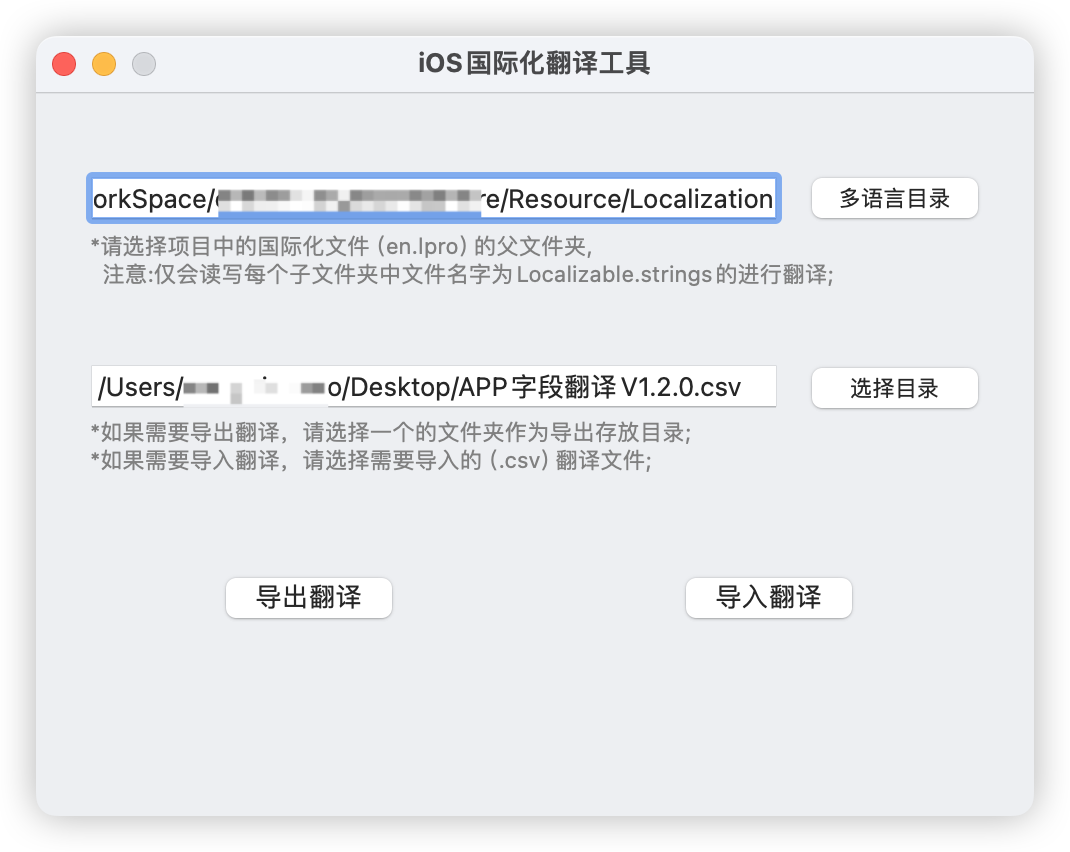
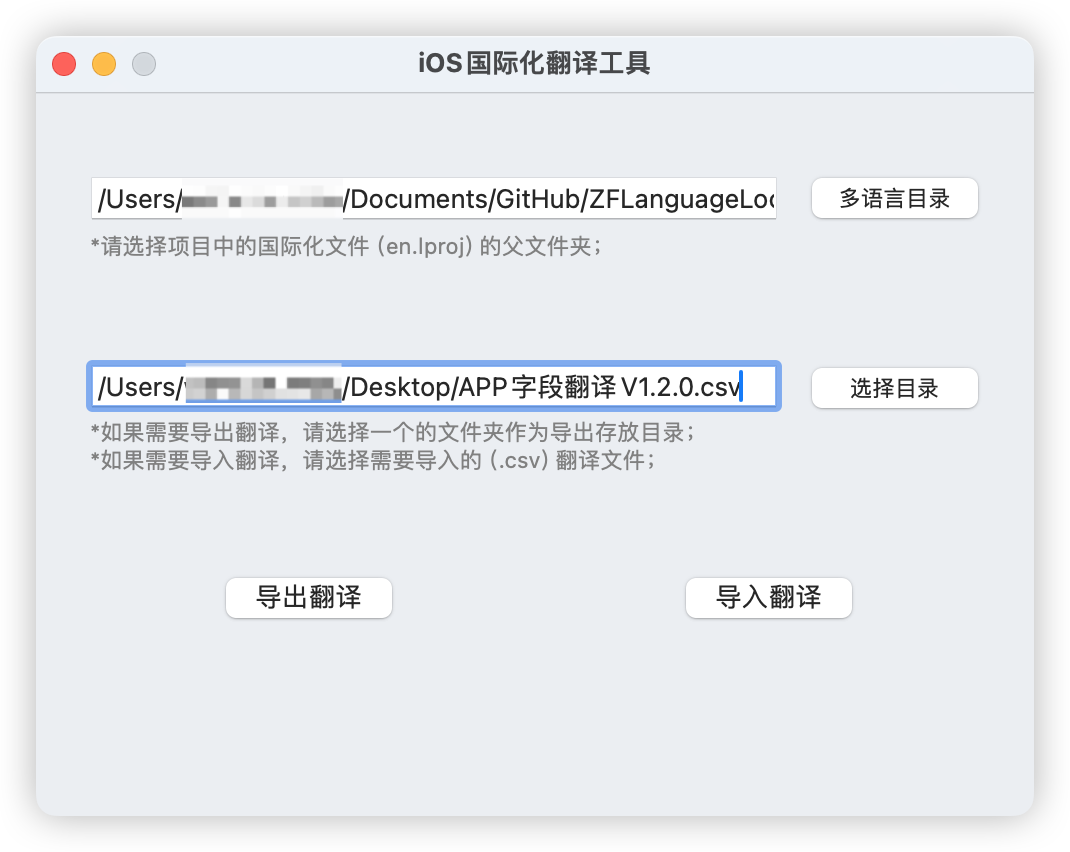
优化细节提示

Changed region(s): [[0.0617, 0.1831, 0.771, 0.3357], [0.0617, 0.3967, 0.7402, 0.4883]]

diff --git a/iOSLanguageLocalized/ViewController.m b/iOSLanguageLocalized/ViewController.m
@@ -81,14 +81,14 @@
     self.chooseLocalizbleBtn.enabled = !isLoading;
     self.localizbleTipLabel.textColor = !isLoading ? NSColor.grayColor : NSColor.redColor;
     if (!isLoading) {
-        self.localizbleTipLabel.stringValue = @"*请选择项目中的国际化文件（en.lpro）的父文件夹";
+        self.localizbleTipLabel.stringValue = @"*请选择项目中的国际化文件（en.lproj）的父文件夹；";
     }
     
     self.csvPathCell.enabled = !isLoading;
     self.chooseCSVBtn.enabled = !isLoading;
     self.csvTipLabel.textColor = !isLoading ? NSColor.grayColor : NSColor.redColor;
     if (!isLoading) {
-        self.csvTipLabel.stringValue = @"*如果需要导出翻译，请选择一个的文件夹作为导出存放目录; *如果需要导入翻译，请选择需要导入的（.csv）翻译文件;";
+        self.csvTipLabel.stringValue = @"*如果需要导出翻译，请选择一个的文件夹作为导出存放目录； *如果需要导入翻译，请选择需要导入的（.csv）翻译文件；";
     }
 
     self.importButton.enabled = !isLoading;

diff --git a/README.md b/README.md
@@ -1,15 +1,17 @@
-# ZFLanguageLocalized
+# iOSLanguageLocalized
 
 一个简易的iOS国际化多语言翻译工具，具有以下功能方便在开发中管理多语言翻译：
 
-1. 一键从.CSV文件中导入多语言到项目中；（注意：项目中的翻译文件名需要以 `Localizable.strings` 命名；）
+1. 一键从`.CSV`文件中导入多语言到项目中；（注意：如果你的翻译表格是Excel格式的文件，可以使用Mac系统项目中的`NUmbers表格`软件打开后导出保存为`.CSV`表格）
 2. 一键从项目中导出多语言到Excel表格；
 
 ![选择路径.png](选择路径.png)
 
-![导入导出结果.png](导入导出结果.png)
+![翻译导入结果.png](翻译导入结果.png)
 
-![注意事项.png](注意事项.png)
+![翻译导出结果.png](翻译导出结果.png)
+
+![翻译表格注意事项.png](翻译表格注意事项.png)
 
 ![翻译语言映射关系.png](翻译语言映射关系.png)
 
